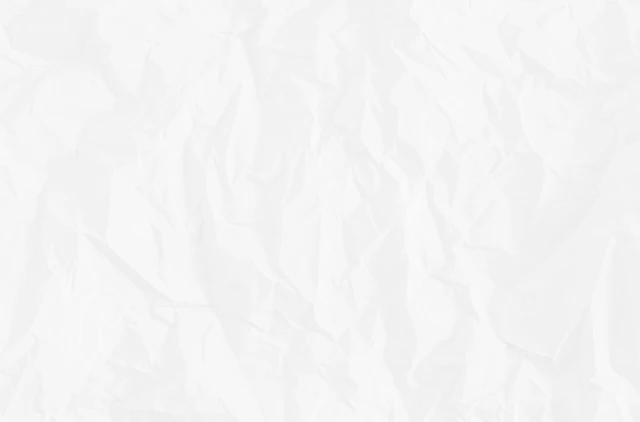
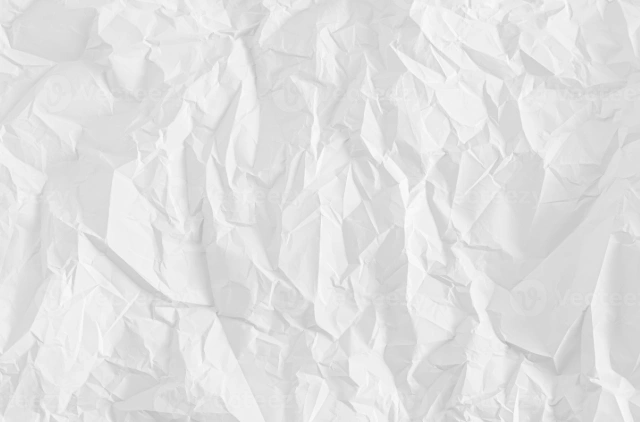
fix: enhance monochrome crumpled paper texture visibility inside floating Navbar glass pill

diff --git a/src/components/layout/Navbar.tsx b/src/components/layout/Navbar.tsx
@@ -68,24 +68,26 @@ export function Navbar() {
           <div
             className="relative overflow-hidden flex h-[56px] items-center gap-1 rounded-[24px] px-4 py-1.5"
             style={{
-              background: "rgba(255,255,255,0.85)",
-              backdropFilter: "blur(28px) saturate(180%)",
-              WebkitBackdropFilter: "blur(28px) saturate(180%)",
+              background: "rgba(255,255,255,0.72)",
+              backdropFilter: "blur(24px) saturate(180%)",
+              WebkitBackdropFilter: "blur(24px) saturate(180%)",
               boxShadow: scrolled
                 ? "0 8px 32px rgba(0,0,0,0.18), 0 1px 0 rgba(255,255,255,0.9) inset"
                 : "0 4px 20px rgba(0,0,0,0.12), 0 1px 0 rgba(255,255,255,0.9) inset",
-              border: "1px solid rgba(255,255,255,0.75)",
+              border: "1px solid rgba(255,255,255,0.85)",
               transition: "box-shadow 0.4s",
             }}
           >
             {/* Neutral monochrome crumpled paper texture overlay */}
             <div
-              className="pointer-events-none absolute inset-0 opacity-35 mix-blend-multiply bg-repeat bg-center bg-[length:420px_auto]"
+              className="pointer-events-none absolute inset-0 opacity-70 mix-blend-multiply bg-repeat bg-center bg-[length:480px_auto] z-0"
               style={{ backgroundImage: "url('/paper-monochrome.webp')" }}
             />
 
             {/* Logo */}
-            <Logo />
+            <div className="relative z-10 flex items-center">
+              <Logo />
+            </div>
 
             {/* Desktop links — hidden on AI Tool page */}
             {!isAiTool && (
